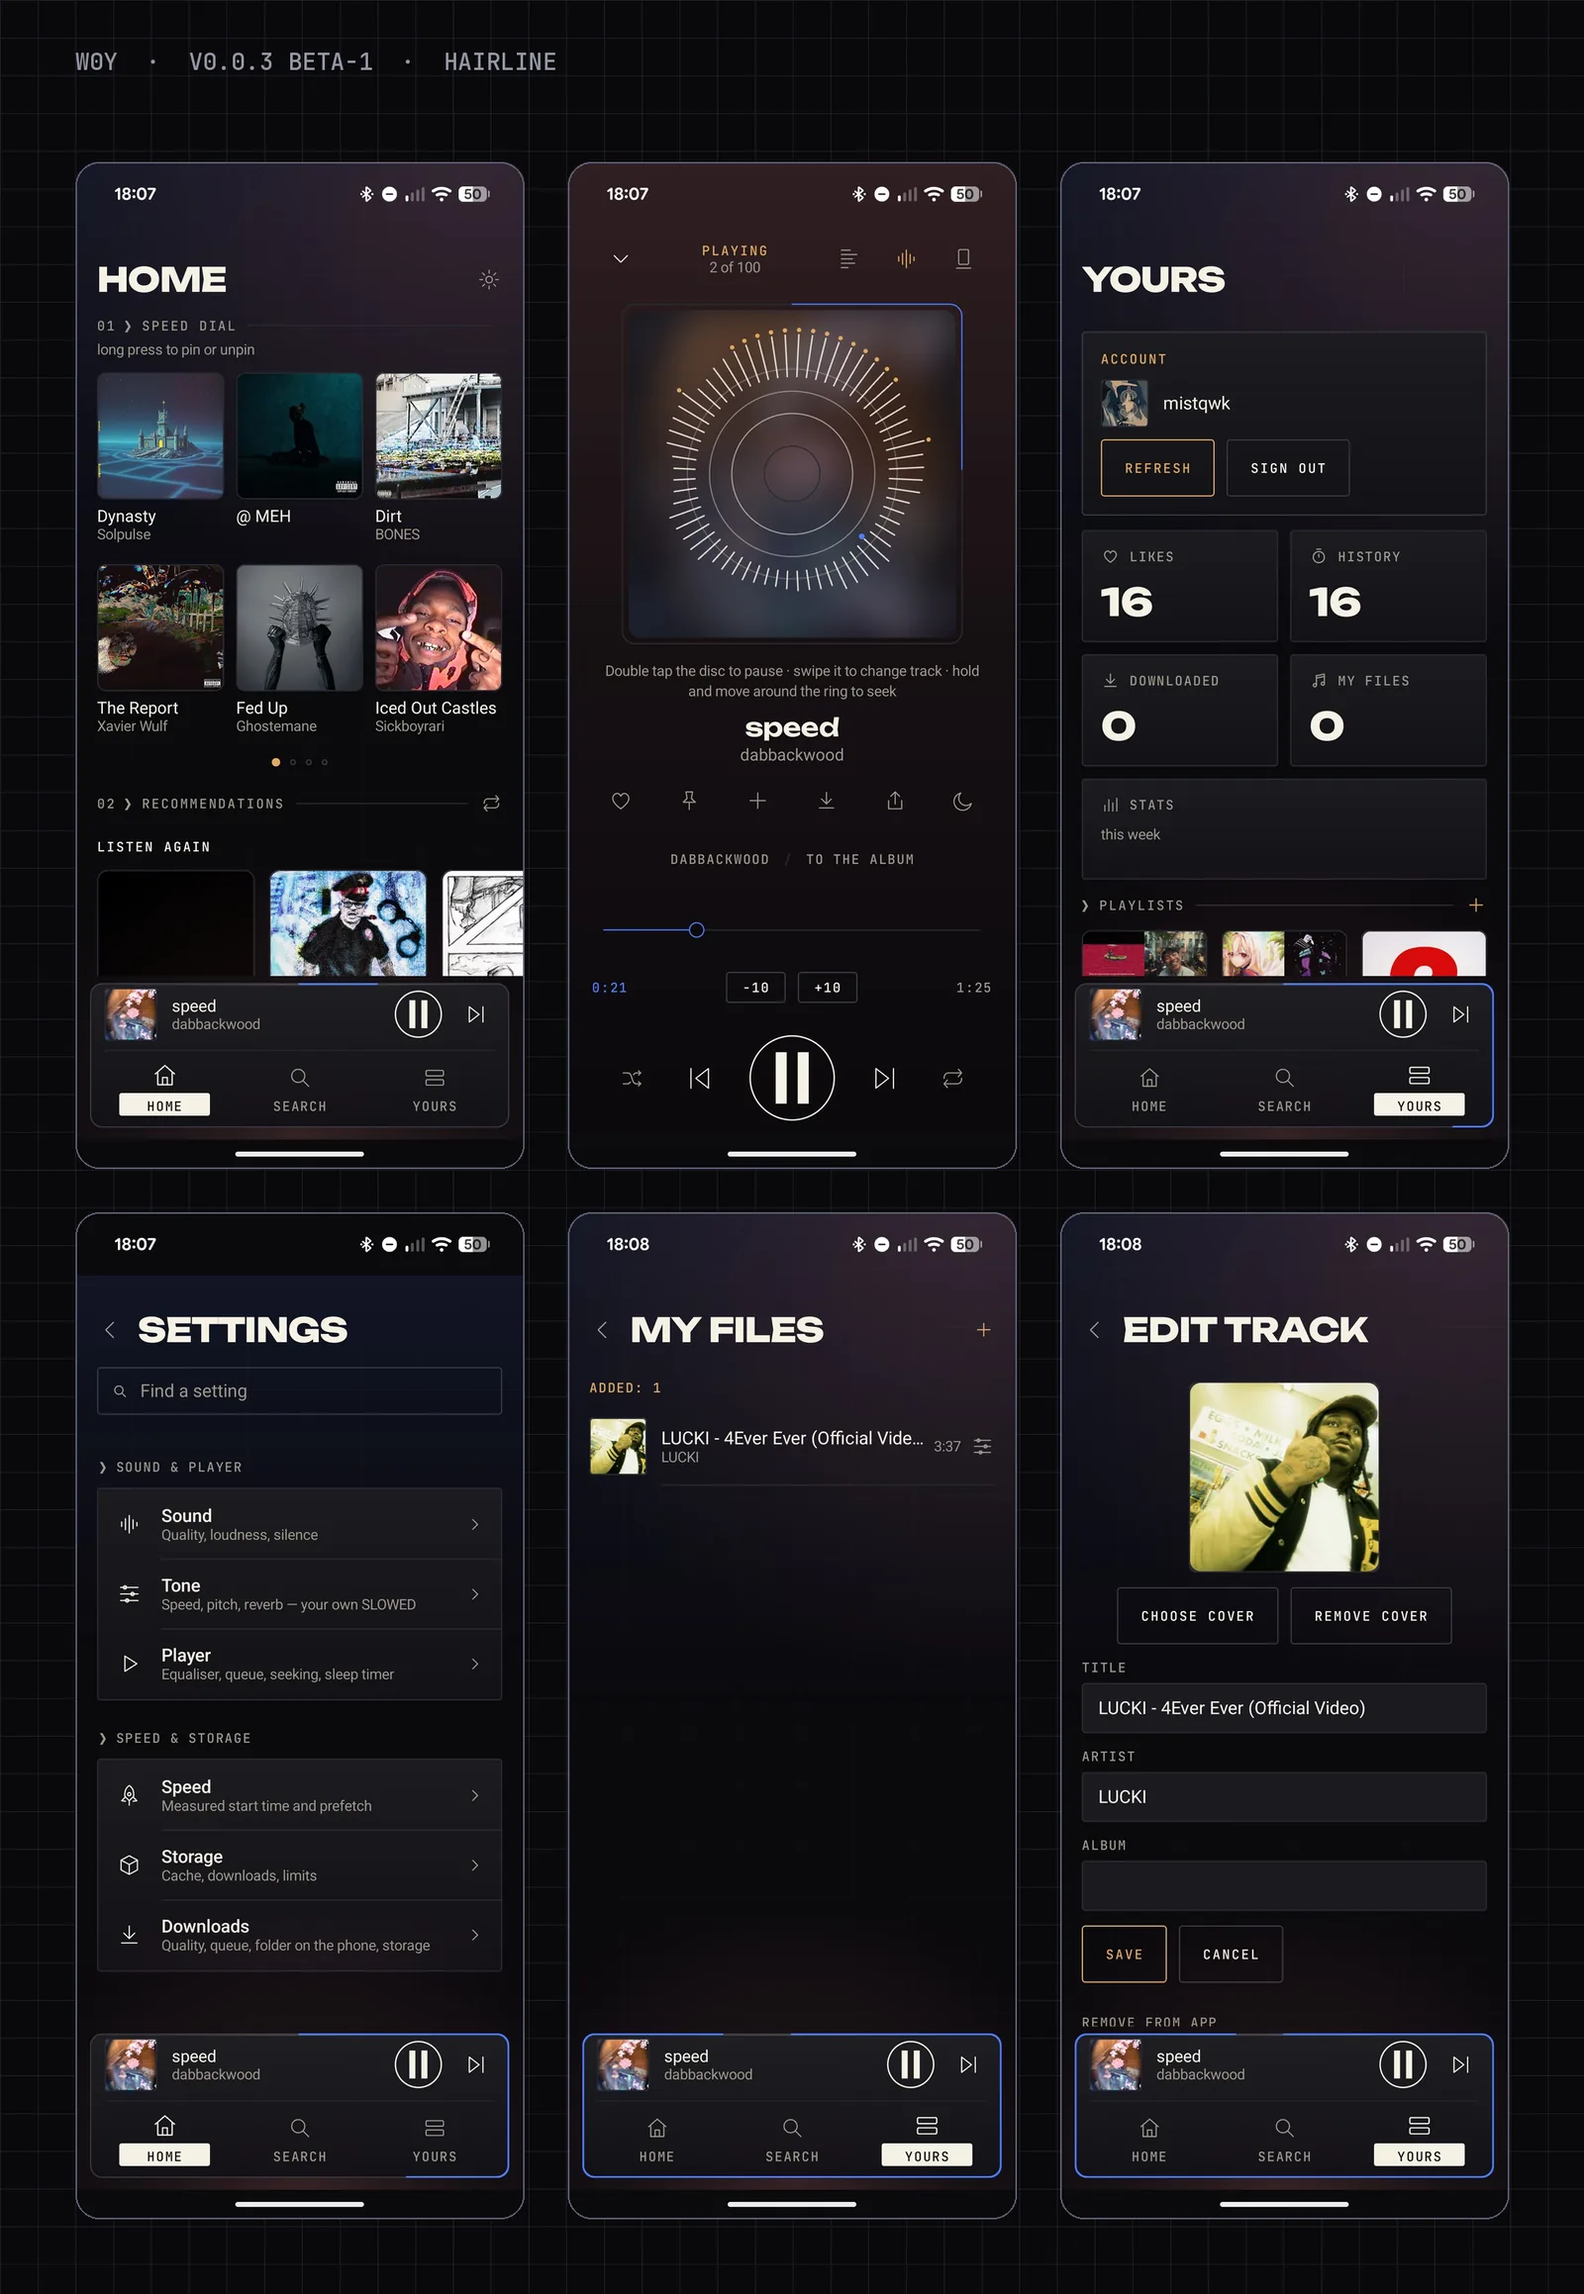
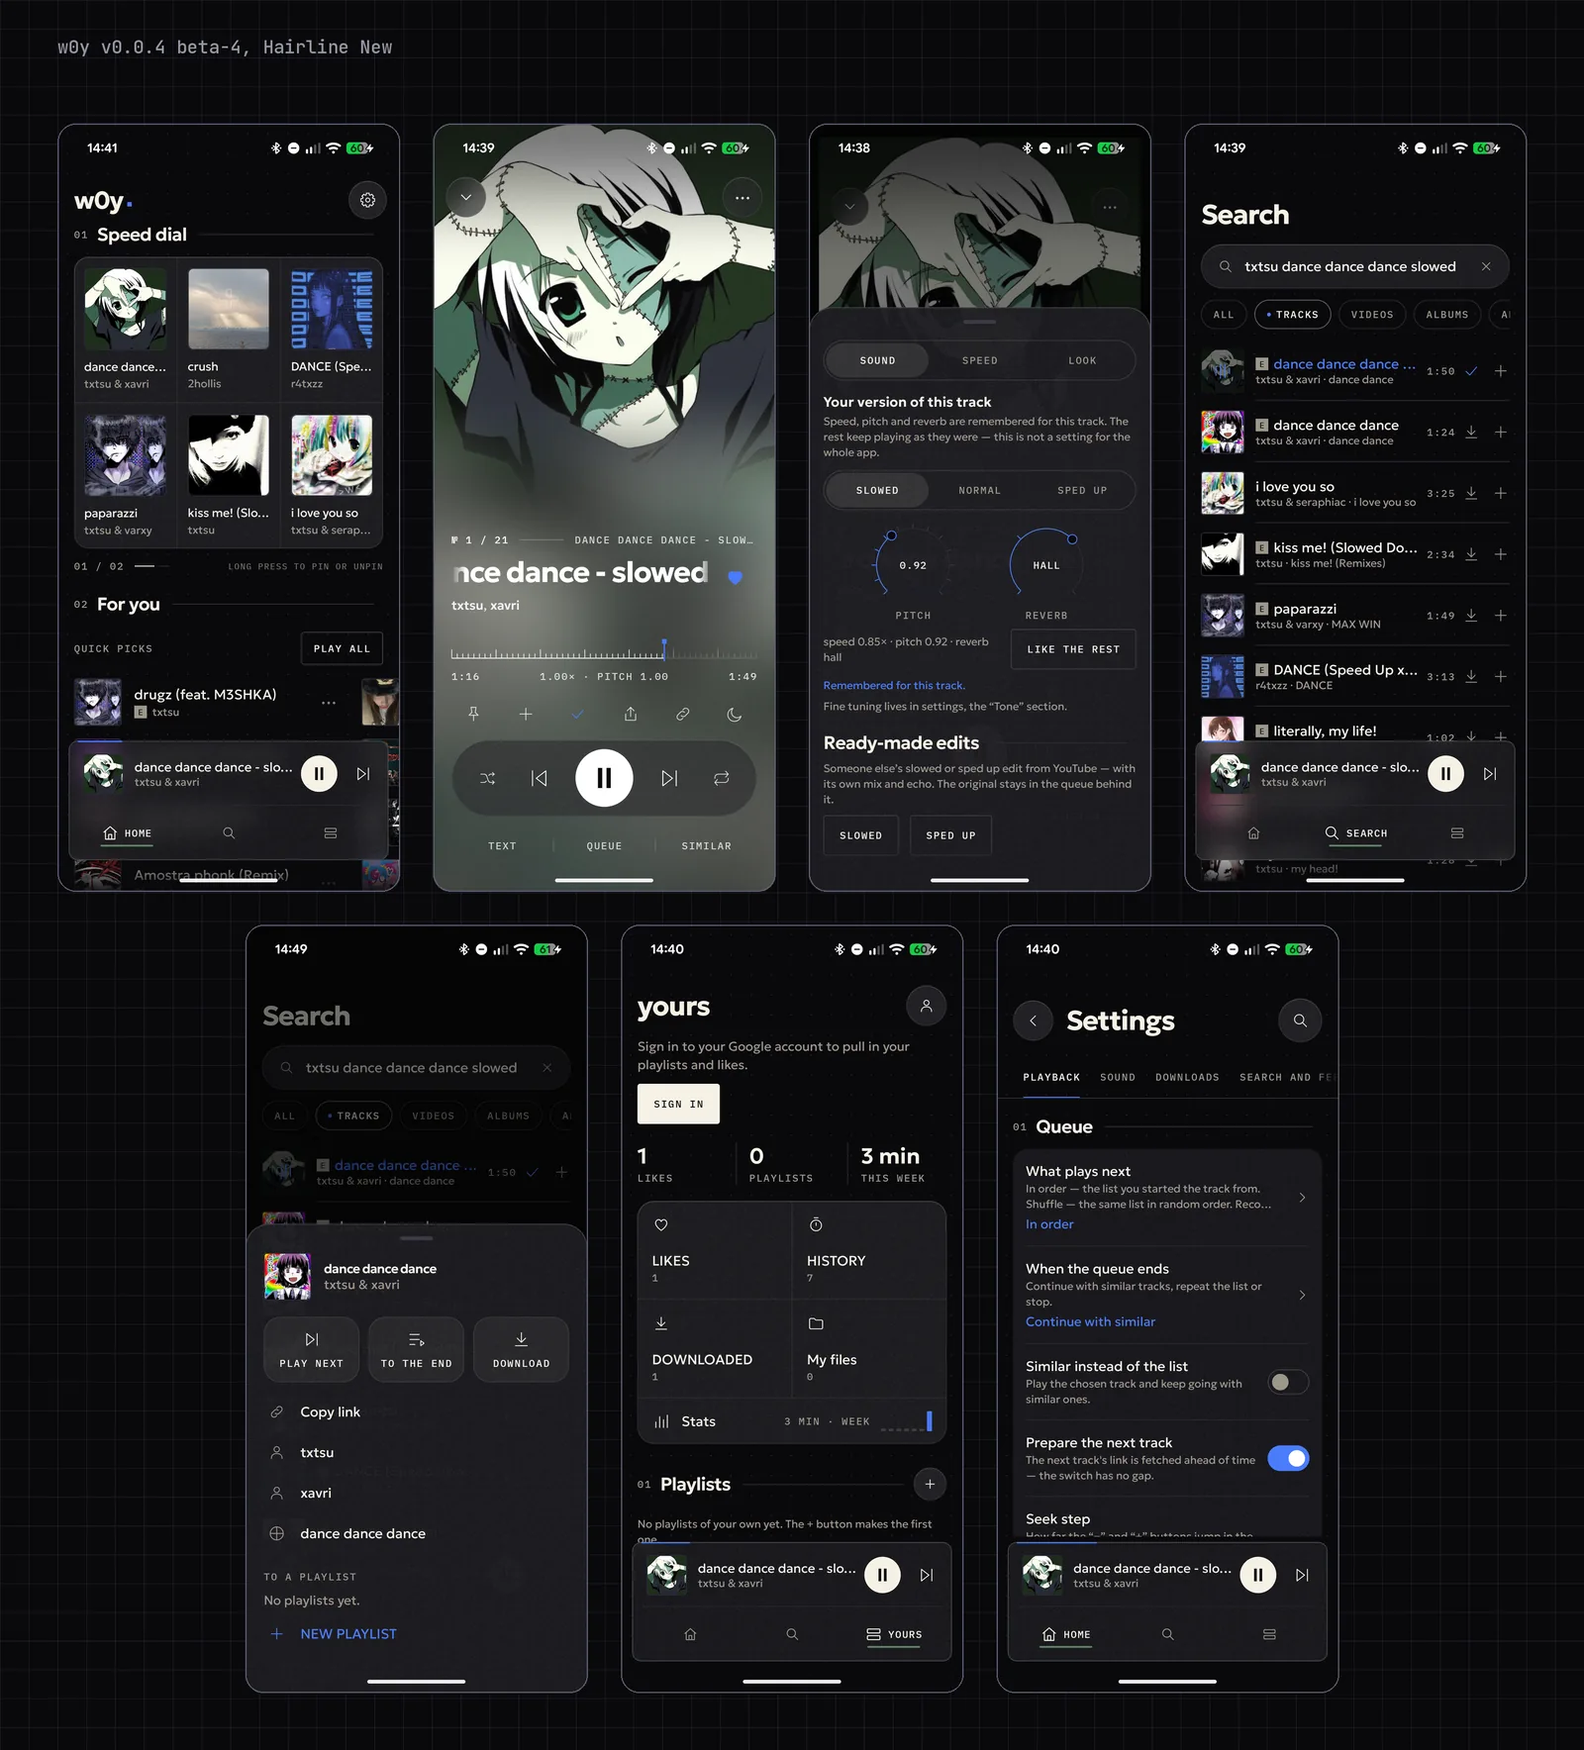
README: новые скриншоты вида Hairline New (главная, плеер, звук, поиск, меню трека, Моё, настройки), текст без точек-разделителей

diff --git a/tools/make_screens.py b/tools/make_screens.py
@@ -8,7 +8,7 @@ from PIL import Image, ImageDraw, ImageFont
 ROOT = Path(__file__).resolve().parent.parent
 RAW = ROOT / "docs/screenshots/raw"
 OUT = ROOT / "docs/screenshots"
-LABEL = "W0Y  ·  V0.0.3 BETA-1  ·  HAIRLINE"
+LABEL = "w0y v0.0.4 beta-4, Hairline New"
 
 BG = (10, 9, 12)
 BLUE = (74, 124, 251)

diff --git a/README.md b/README.md
@@ -1,24 +1,24 @@
 <p align="center">
   <img alt="version" src="https://img.shields.io/badge/version-v0.0.4%20beta--4-4a7cfb?style=flat-square">
   <img alt="license" src="https://img.shields.io/badge/license-AGPL--3.0-e0a860?style=flat-square">
-  <img alt="platform" src="https://img.shields.io/badge/platform-Android%208%2B%20%C2%B7%20Windows%20%C2%B7%20Linux-4a7cfb?style=flat-square">
+  <img alt="platform" src="https://img.shields.io/badge/platform-Android%208%2B%2C%20Windows%2C%20Linux-4a7cfb?style=flat-square">
 </p>
 
 # w0y
 
-**Fast, adjustable, and yours.** An open client for YouTube Music: it starts
-tracks quickly, has a lot of settings, shows no ads of its own and sends no
-telemetry anywhere. You can sign in to your own account to get your library,
-playlists and likes.
+An open client for YouTube Music. It starts tracks quickly, has a lot of
+settings, shows no ads of its own and sends no telemetry anywhere. You can sign
+in to your own account to get your library, playlists and likes.
 
-Part of the [TexFi](https://texfi-hub.vercel.app) family. The default look
-is **Hairline**: thin lines, sharp corners, one hero per screen, a floating
-bottom dock. The older Pixel and Smooth looks are still in Settings → Look.
+Part of the [TexFi](https://texfi-hub.vercel.app) family. The newest look is
+**Hairline New**: frosted islands over a dotted backdrop, and a poster player
+whose background flows with the colours of the cover. Hairline, Pixel and
+Smooth are still in Settings → Look.
 
 ## Screenshots
 
 <!-- screenshots:start -->
-[![w0y screenshots: home, search, library, player, sound, look, about](docs/screenshots/w0y-screens-small.webp)](docs/screenshots/w0y-screens.png)
+[![w0y screenshots: home, player, sound, search, track menu, yours, settings](docs/screenshots/w0y-screens-small.webp)](docs/screenshots/w0y-screens.png)
 <!-- screenshots:end -->
 
 ## Features
@@ -112,9 +112,9 @@ Russian, English, Ukrainian and Polish.
 
 ### Desktop hotkeys
 
-`Space` play/pause · `←`/`→` seek · `Ctrl+←`/`Ctrl+→` previous/next · `↑`/`↓` volume ·
-`M` mute · `/` or `Ctrl+K` search · `1`–`5` tabs · `Q` player · `Y` lyrics ·
-`B` Stand mode · `Ctrl+M` mini player · `F11` full screen · `Esc` back · `?` the full
+`Space` play/pause, `←`/`→` seek, `Ctrl+←`/`Ctrl+→` previous/next, `↑`/`↓` volume,
+`M` mute, `/` or `Ctrl+K` search, `1`–`5` tabs, `Q` player, `Y` lyrics,
+`B` Stand mode, `Ctrl+M` mini player, `F11` full screen, `Esc` back, `?` the full
 list (rebind in Settings → App). Right click on a track opens its menu; `Ctrl`/`Shift`
 select several; double click plays. The media keys of the keyboard work too.
 
